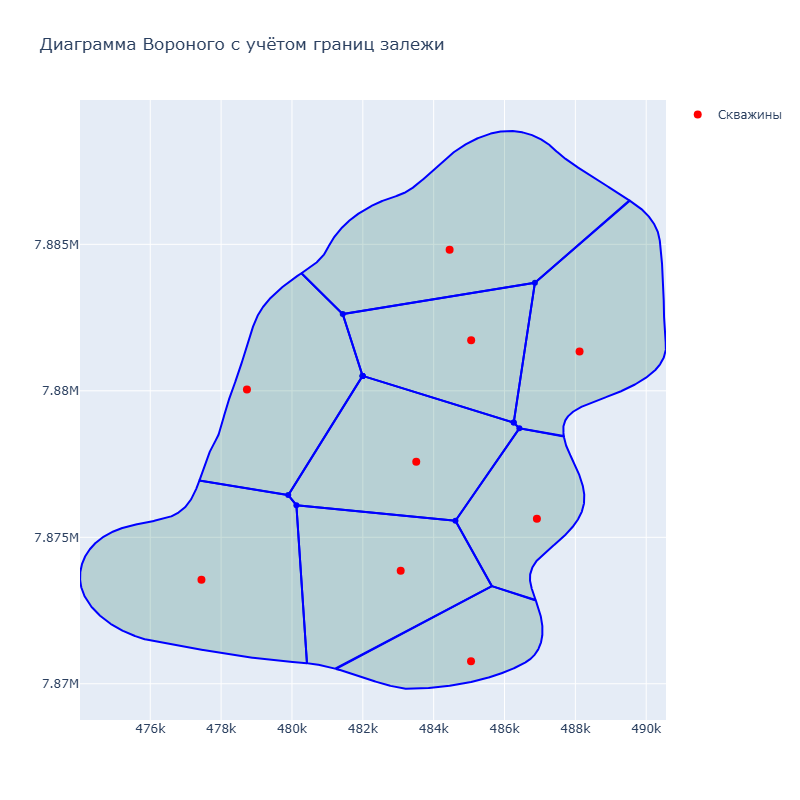
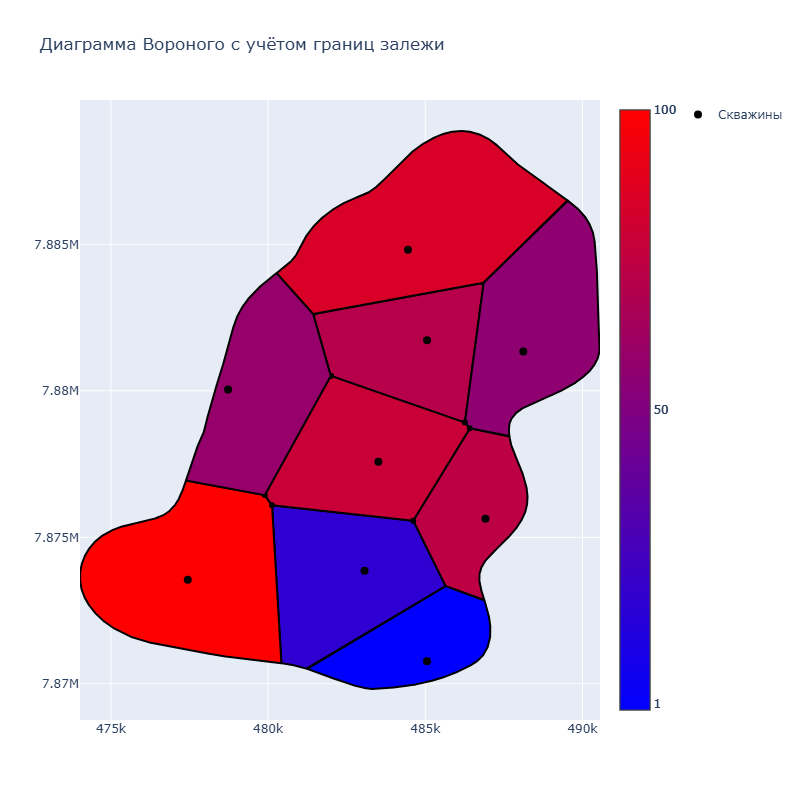
Add files via upload

diff --git a/main.py b/main.py
@@ -1,52 +1,71 @@
 import argparse
+
+from plotly.colors import sample_colorscale
 from geovoronoi import voronoi_regions_from_coords
 import numpy as np
 from shapely.geometry import Polygon
 import plotly.graph_objects as go
 from typing import Tuple
-import plotly.io as pio
-import os
 
 
-def load_data(PATH_TO_BORDER: str, PATH_TO_WELLS: str) -> Tuple[Polygon, np.array]:
+def load_data(PATH_TO_BORDER: str, PATH_TO_WELLS: str) -> Tuple[Polygon, np.array, np.array]:
     """Функция загрузки данных: границы и координаты скважин.
     :arg
     :param PATH_TO_WELLS: путь к данным скважин
     :param PATH_TO_BORDER: путь к данным контура
-    :return Tuple - кортеж из полигона и данные о скважинах в формате np.array
+    :return Tuple - кортеж из полигона, данных о скважинах в формате np.array, информации о локусах
     """
     border_data = np.loadtxt(PATH_TO_BORDER)[:, :2]
     wells_data = np.loadtxt(PATH_TO_WELLS, skiprows=5)[:, :2]
-    return Polygon(border_data), wells_data
+
+    # Создание рандомные данных (от 1 до 100), для каждой скважины
+    # В дальнейшем можно импортировать какую-то информацию
+
+    values_locus = np.random.randint(0, 100, size=len(wells_data[:, 0]))
+    values_locus = (values_locus - values_locus.min()) / (values_locus.max() - values_locus.min())
+    return Polygon(border_data), wells_data, values_locus
 
 
-def create_voronoi_plot(border: Polygon, wells: np.array) -> go.Figure:
+def create_voronoi_plot(border: Polygon, wells: np.array, values_locus: np.array) -> go.Figure:
     """Функция создания диаграммы Вороного.
     :arg
     :param border: граница контура
     :param wells: данные по скважинам
+    :param values_locus: информация о локусах (массив чисел от 1 до 100)
     :return go.Figure -  график, но не показывает его
     """
     region_polys, _ = voronoi_regions_from_coords(wells, border)
 
     fig = go.Figure()
 
-    for poly in region_polys.values():
+    # Получаем цвета локусов
+    colorscale = ['rgb(0, 0, 255)', 'rgb(255, 0, 0)']
+    colors = sample_colorscale(colorscale, values_locus)
+
+    for i, poly in enumerate(region_polys.values()):
         x, y = poly.exterior.xy
         fig.add_trace(go.Scatter(
             x=list(x), y=list(y),
             fill="toself",
-            fillcolor="rgba(0,100,80,0.2)",
-            line=dict(color="blue", width=2),
+            fillcolor=colors[i],
+            line=dict(color="black", width=2),
             hoverinfo="skip",
-            showlegend=False
+            showlegend=False,
+            marker=dict(
+                colorscale=colorscale,
+                cmin=0,
+                cmax=100,
+                colorbar=dict(
+                    tickvals=[1, 50, 100],
+                )
+            )
         ))
 
     # Скважины
     fig.add_trace(go.Scatter(
         x=wells[:, 0], y=wells[:, 1],
         mode="markers",
-        marker=dict(color="red", size=8),
+        marker=dict(color="black", size=8),
         name="Скважины"
     ))
 
@@ -55,7 +74,12 @@ def create_voronoi_plot(border: Polygon, wells: np.array) -> go.Figure:
         title="Диаграмма Вороного с учётом границ залежи",
         width=800,
         height=800,
-        hovermode="closest"
+        hovermode="closest",
+        legend=dict(
+            x=1.15,  # Сдвиг вправо
+            xanchor='left',  # Якорь по горизонтали ('left', 'center', 'right')
+            yanchor='top'  # Якорь по вертикали ('top', 'middle', 'bottom')
+        )
     )
 
     return fig
@@ -77,8 +101,8 @@ def main():
     else:
         PATH_TO_WELLS = 'wells.txt'
 
-    border, wells = load_data(PATH_TO_BORDER, PATH_TO_WELLS)
-    fig = create_voronoi_plot(border, wells)
+    border, wells, values_locus = load_data(PATH_TO_BORDER, PATH_TO_WELLS)
+    fig = create_voronoi_plot(border, wells, values_locus)
     fig.show()
 
 
